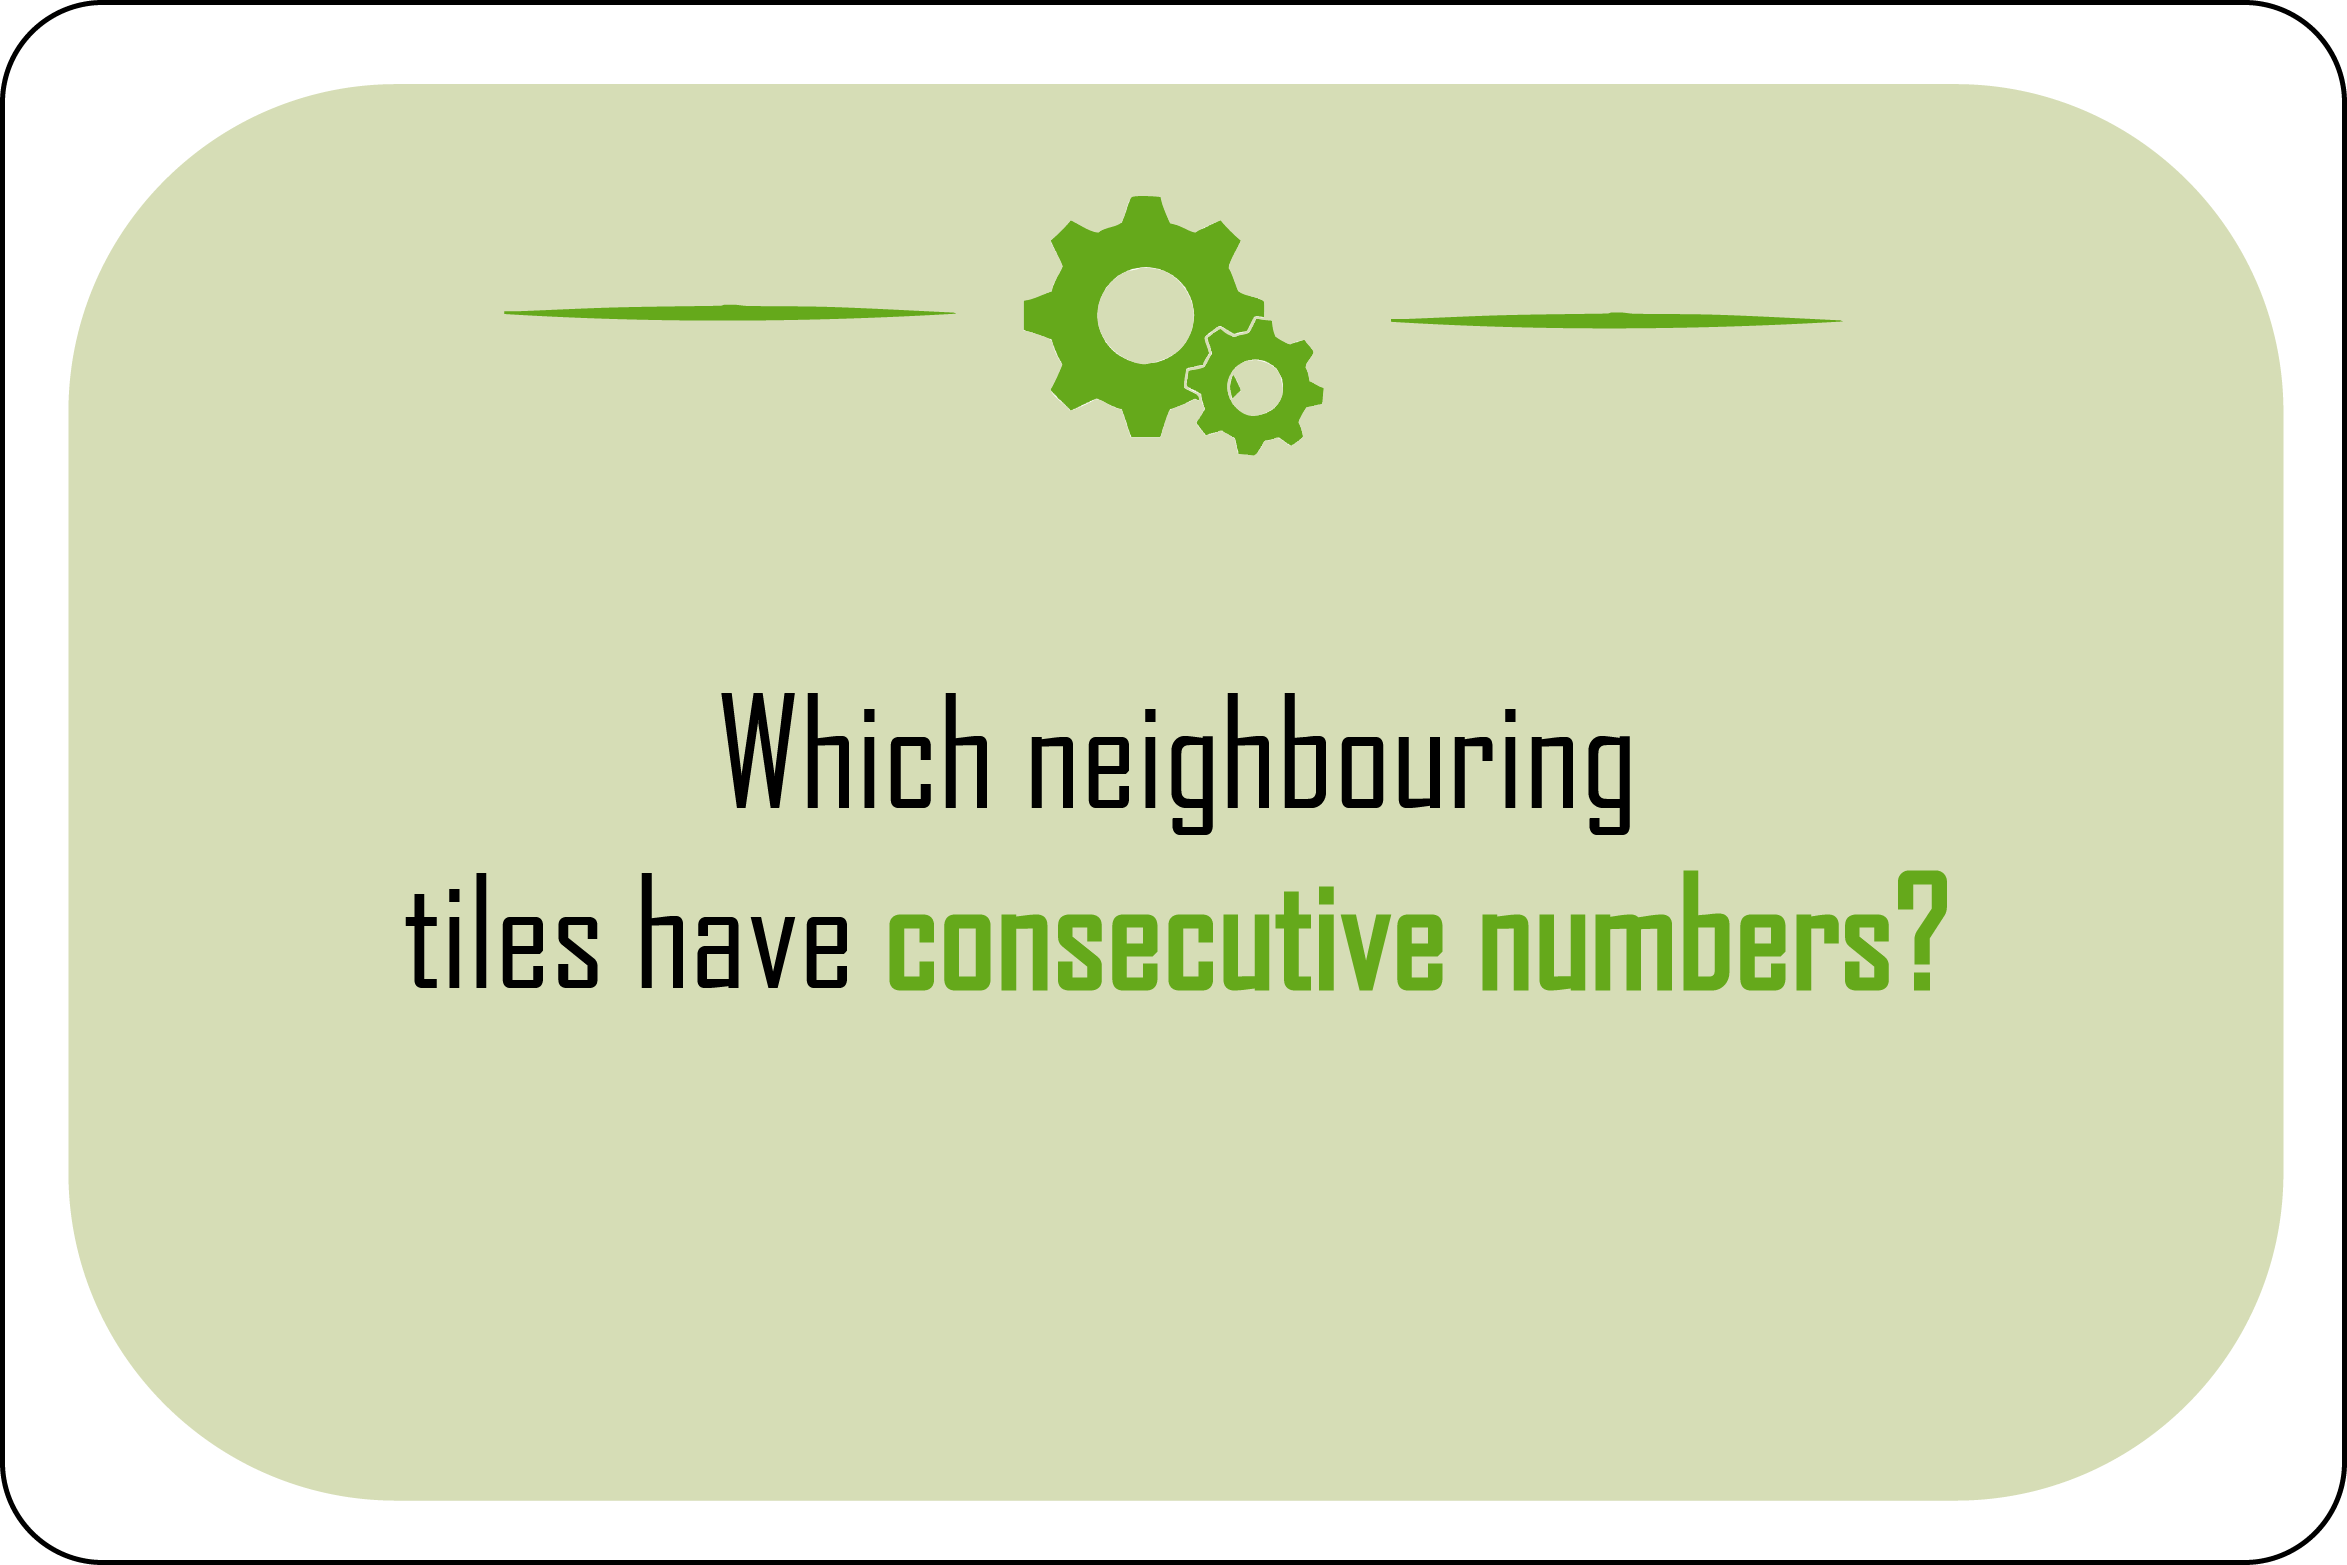
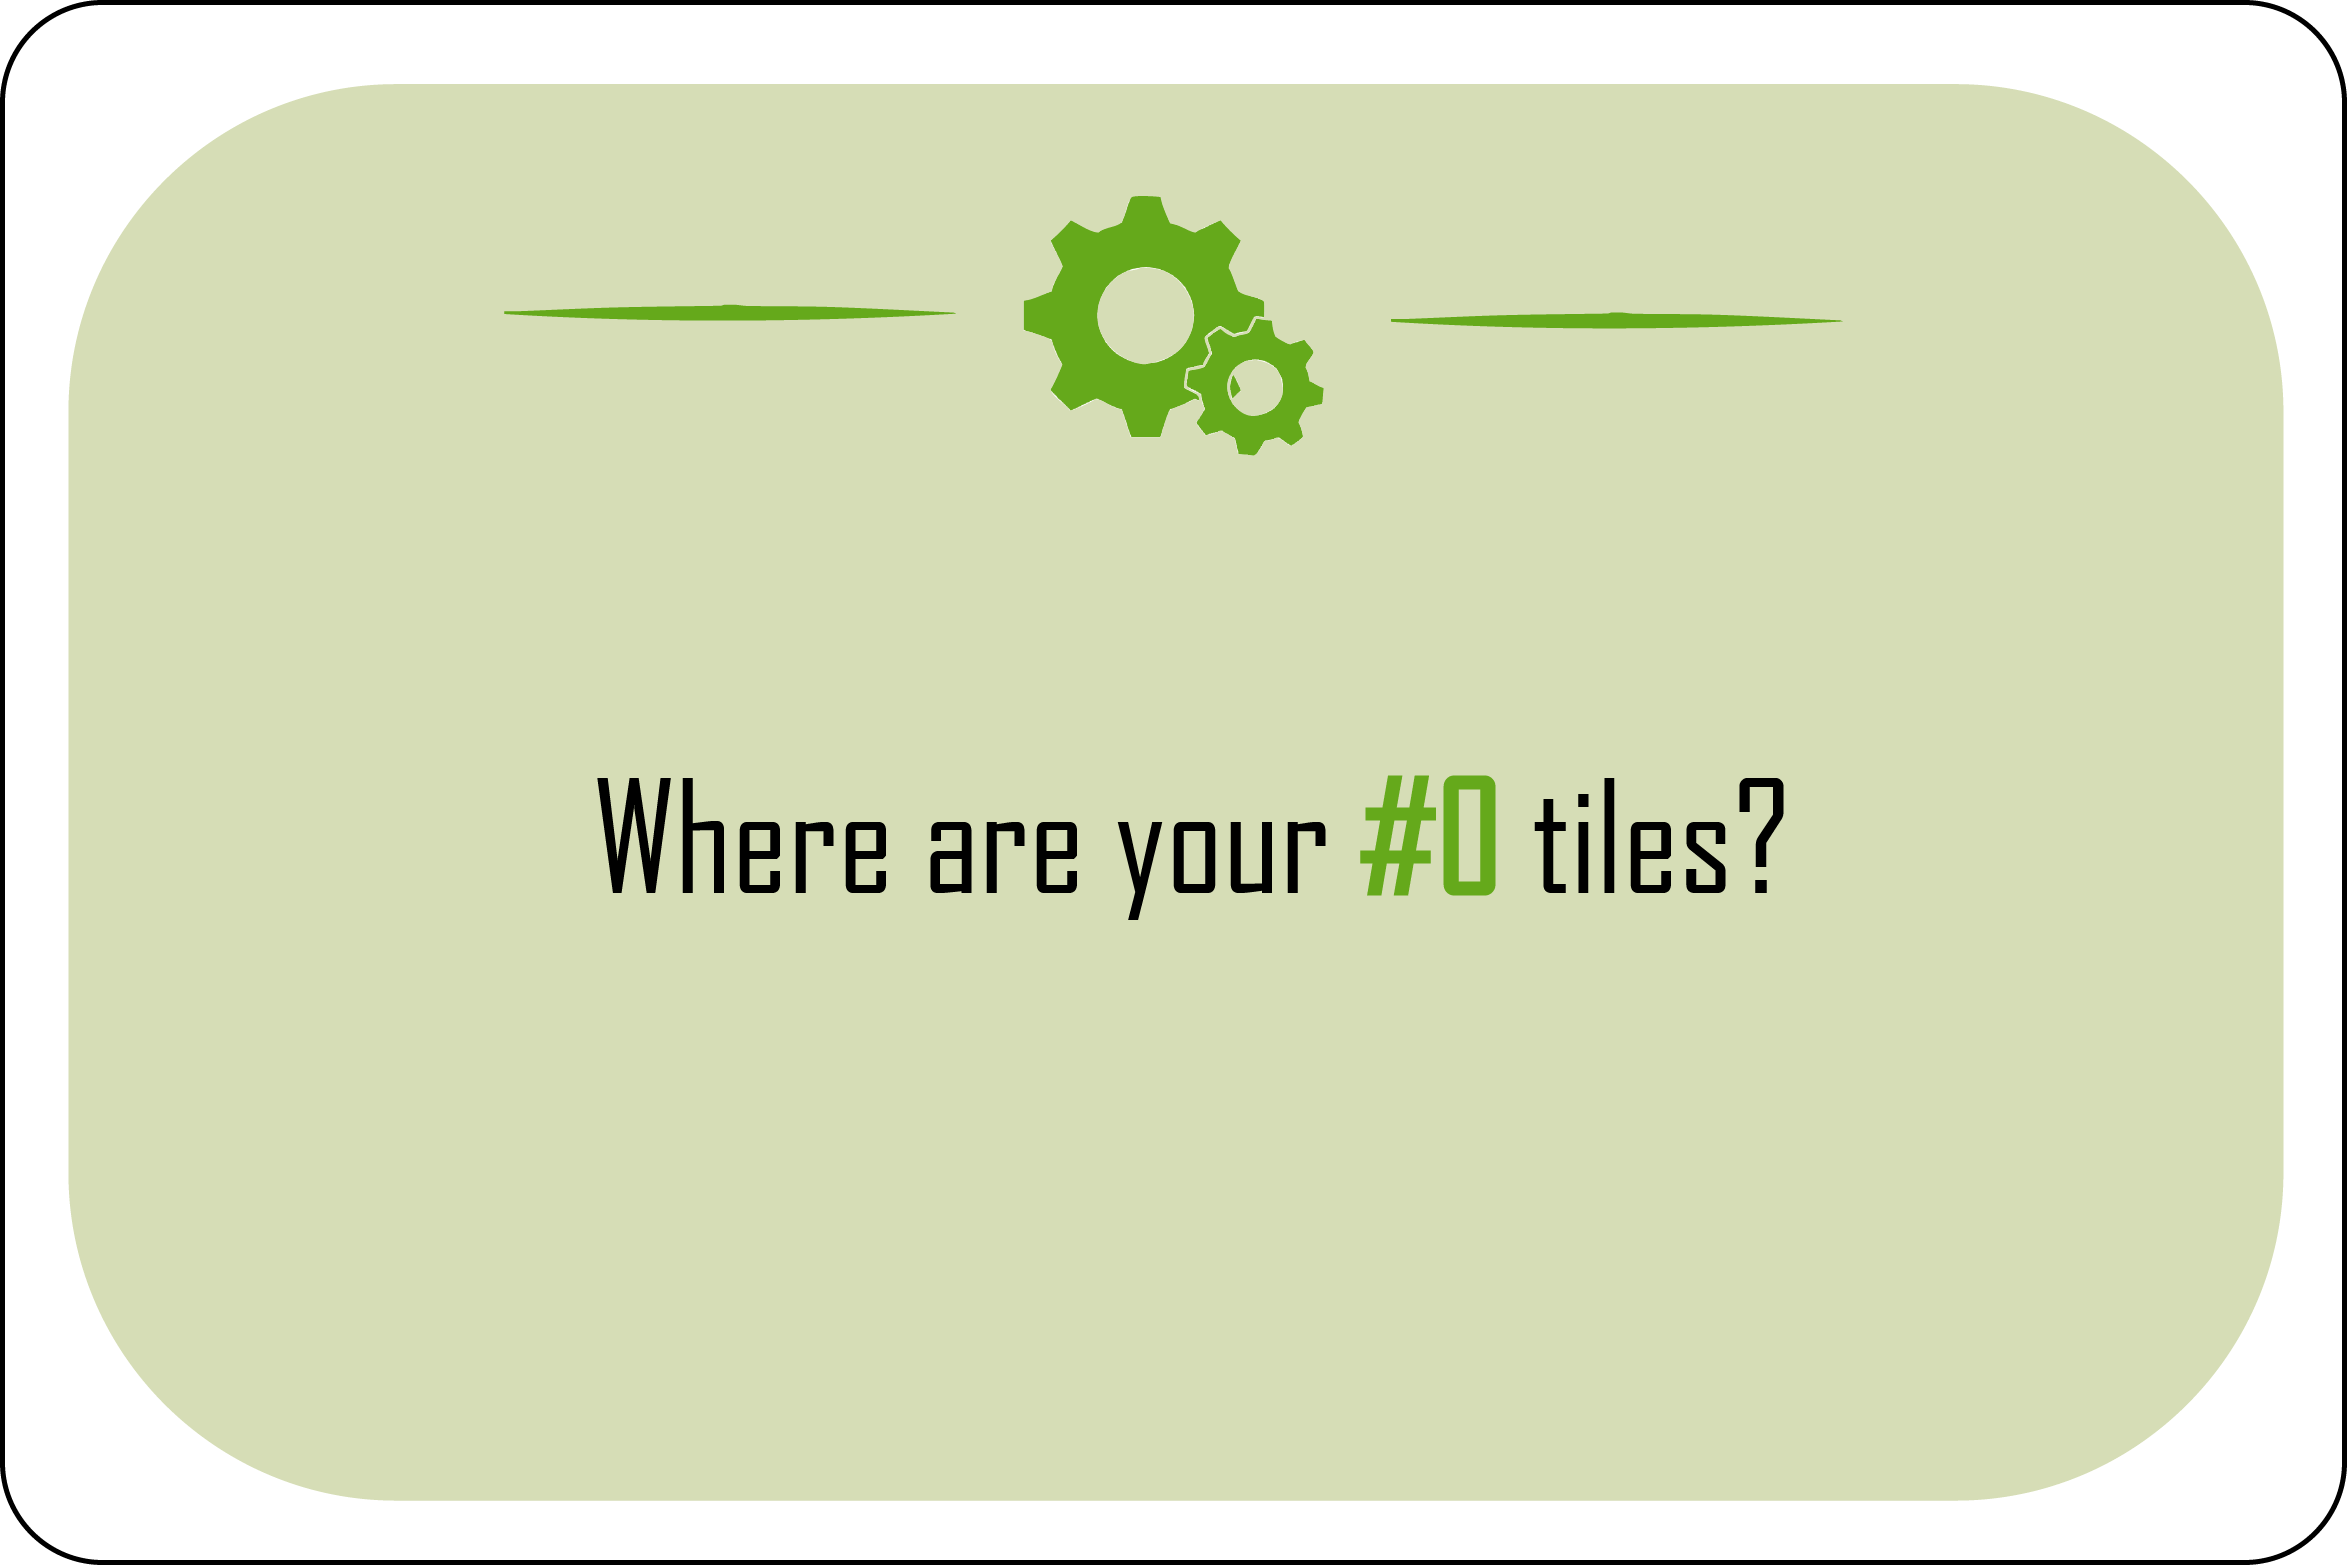
Added print of results for players, fixed cards naming and added results bubble images

Changed region(s): [[0.1555, 0.4294, 0.8398, 0.6441]]

diff --git a/client/game_objects/pages/new_game.py b/client/game_objects/pages/new_game.py
@@ -113,9 +113,12 @@ class NewGame(GameWindow):
         self.build_draw_pile(self.current_drawn_condition_cards.values())
         self.tiles_group.add(self.condition_cards_group.condition_card_tiles)
 
-    def replace_card_and_give_result(self, card_id, next_card_id, card_description):
-        self.remove_played_card(card_id)
+    def replace_card_and_give_result(self, card_id, next_card_id, player_results):
+        played_card = self.remove_played_card(card_id)
         self.draw_condition_card(next_card_id)
+
+        for result in player_results:
+            print(played_card.positive_condition_message.format(result.get("matching_cards")))
 
         new_card = Tile(
             f"condition_card-{next_card_id}",
@@ -153,6 +156,8 @@ class NewGame(GameWindow):
 
         card_tile = self.condition_cards_group.get_tile_by_id(card_id)
         self.tiles_group.remove(card_tile)
+
+        return card
 
     def activate_tile(self, tile, event):
         if tile.name.startswith("condition_card") and event.button == client.LEFT_BUTTON_CLICK:

diff --git a/client/event_handler.py b/client/event_handler.py
@@ -194,7 +194,7 @@ class EventHandler(Singleton):
         if message_type == "give_number_cards":
             self.current_window.load_number_cards(message.get("cards"))
         if message_type == "card_condition_result":
-            self.current_window.replace_card_and_give_result(message.get("card_id"), message.get("next_card_id"), message.get("card_description"))
+            self.current_window.replace_card_and_give_result(message.get("card_id"), message.get("next_card_id"), message.get("player_results"))
 
     def open_full_screen(self):
         self.screen = pygame.display.set_mode((0, 0), pygame.FULLSCREEN)
